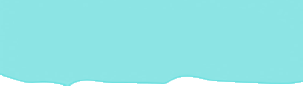
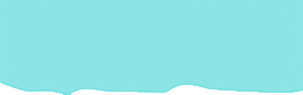
modified registration and made login image bigger to hold error message in future

diff --git a/app/assets/stylesheets/home.css.scss b/app/assets/stylesheets/home.css.scss
@@ -80,7 +80,7 @@ $registration_width:232px;
     border: 0px;
     background: $light-orange;
     width: $registration_width;
-	opacity:.75;
+	opacity:.65;
     color: white;
     height: 33px;
     font-size: 16px;
@@ -99,7 +99,7 @@ $registration_width:232px;
       &:hover {
         opacity: 1;
         cursor: pointer;
-		background: #4E6868;
+		background: $darkest_orange;
       }
 
     }

diff --git a/app/assets/stylesheets/application.css.scss b/app/assets/stylesheets/application.css.scss
@@ -102,7 +102,7 @@ height: 105px;
   background-repeat: no-repeat;
   background-position: center, top;
   width: 303px;
-  height: 86px;
+  height: 95px;
   float: left;
   margin-right: 10px;
   margin-left: 15px;
@@ -115,7 +115,7 @@ height: 105px;
 		margin-top:5px;
 		margin-left:10px;
 		width:160px;
-		height: 15px;
+		height: 10px;
 		border: 0px;
 		padding: 5px;
 		color:gray;
